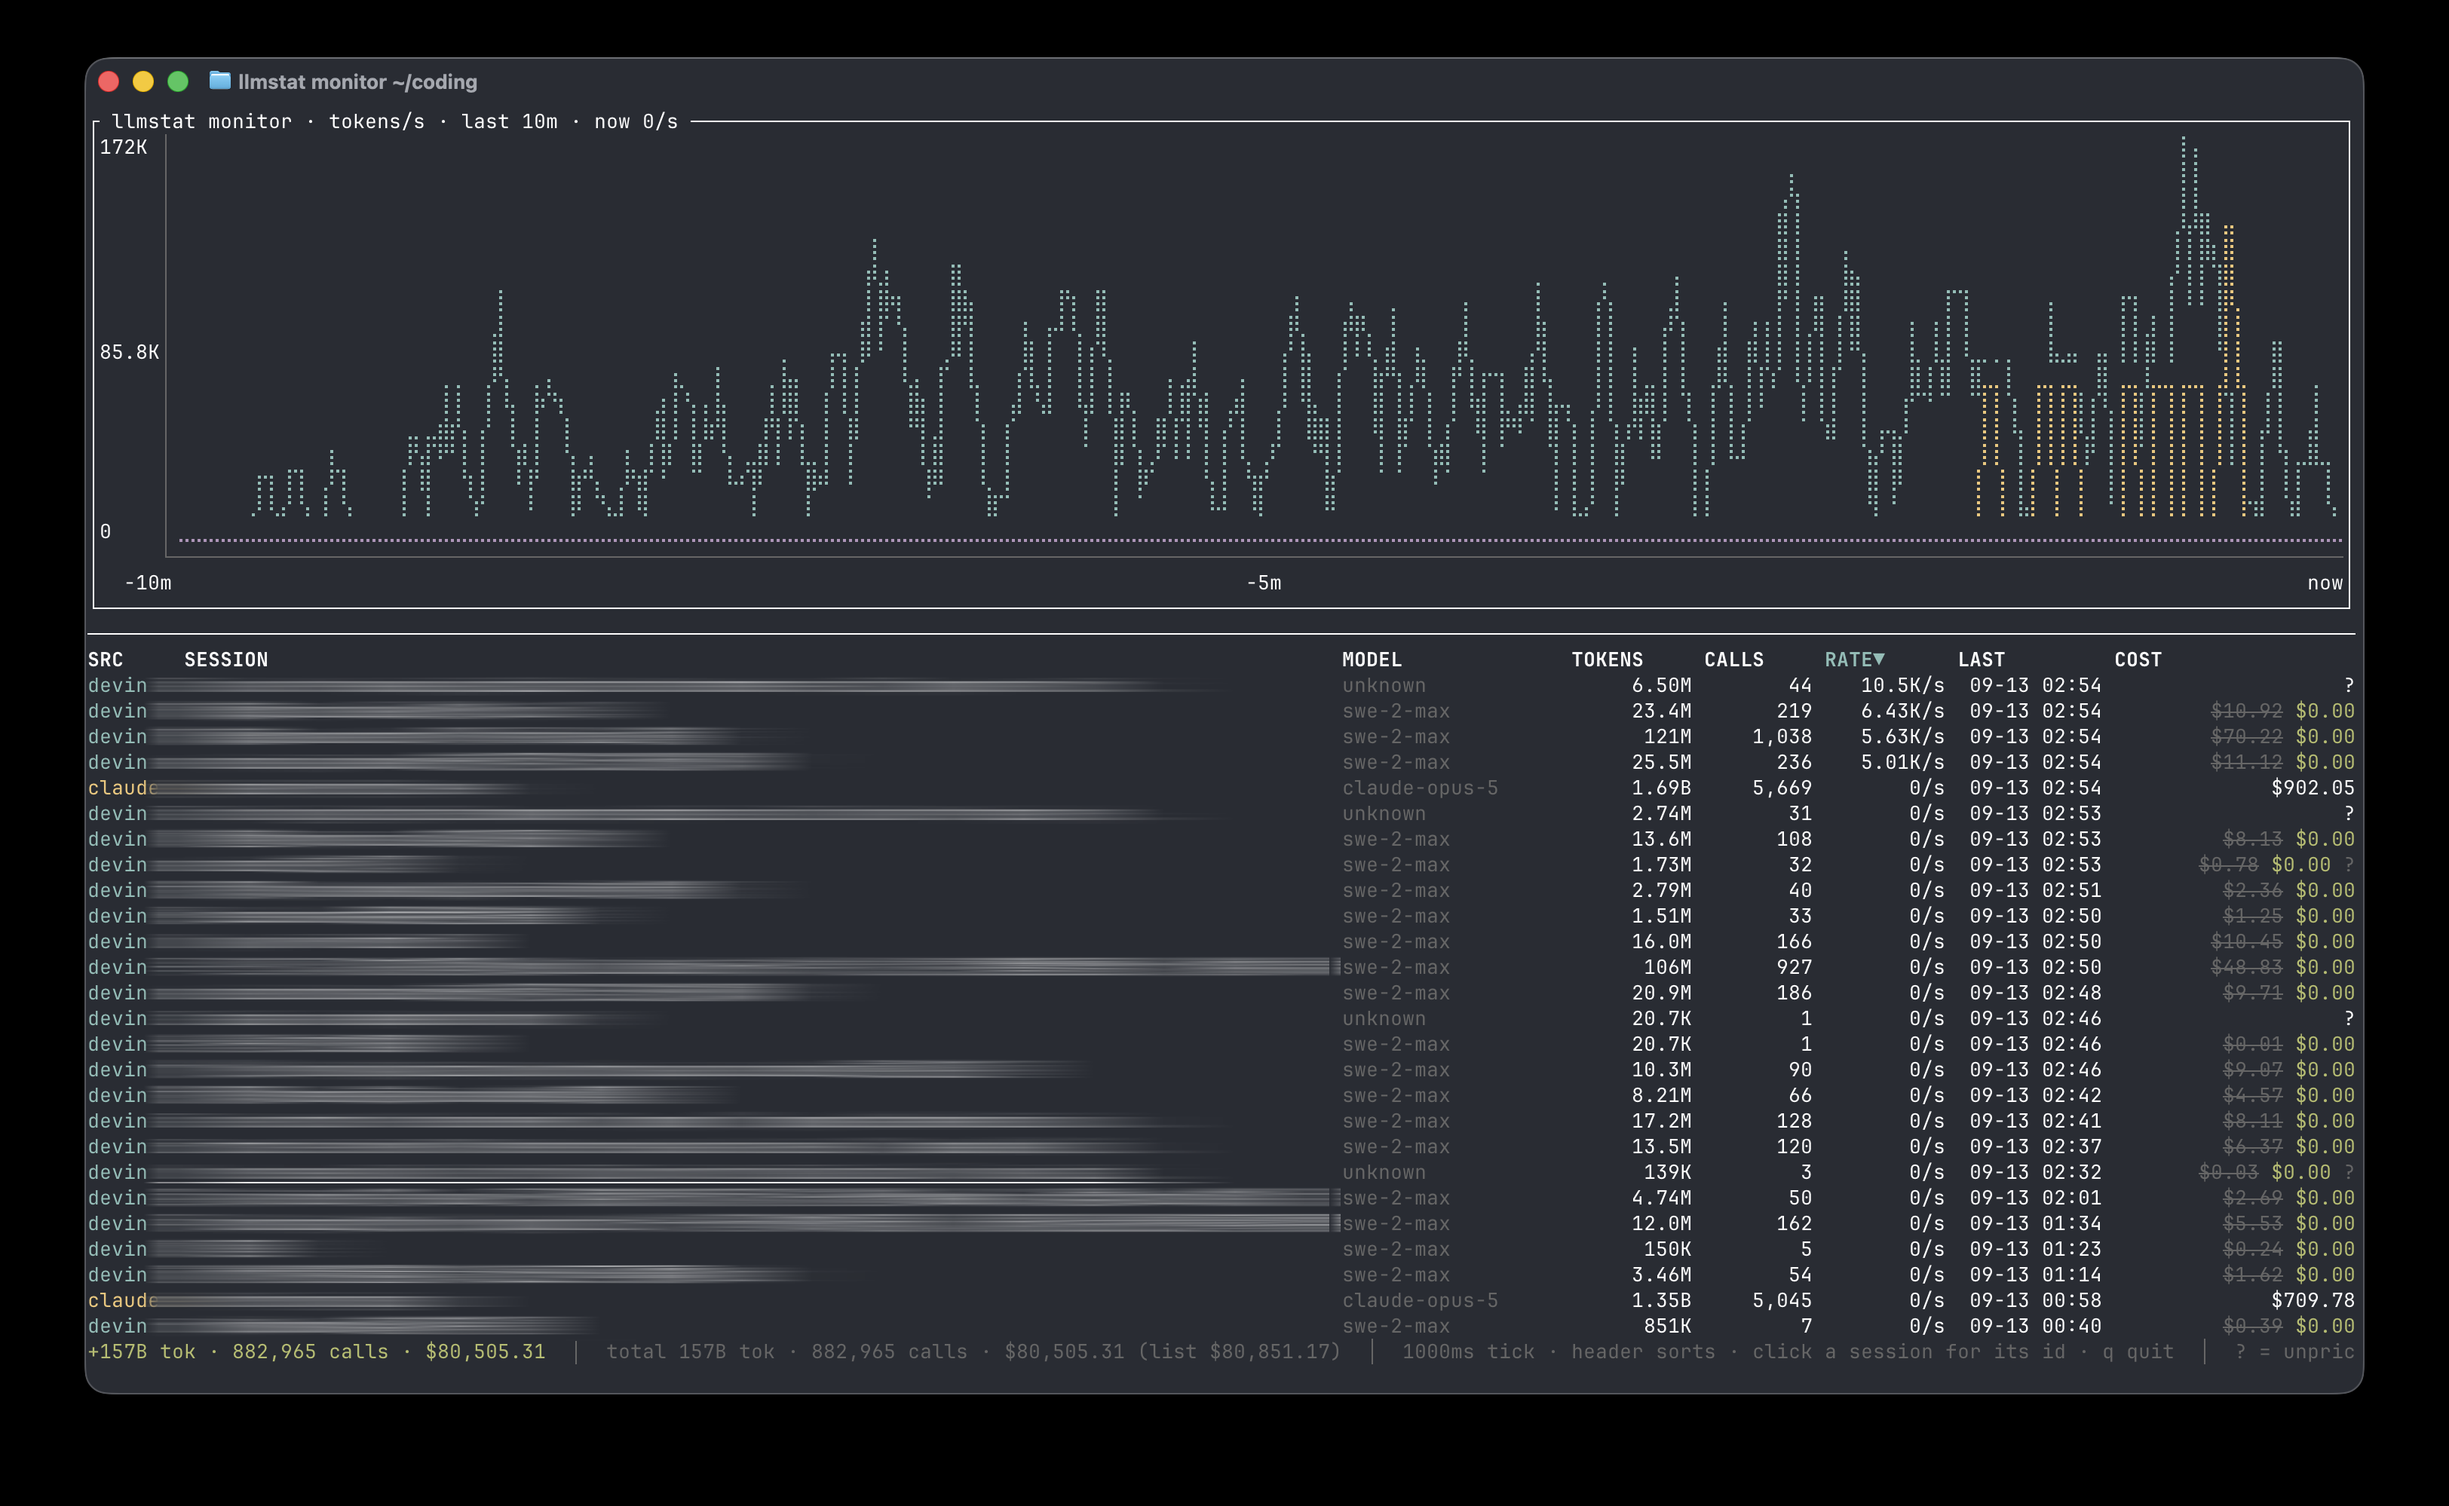
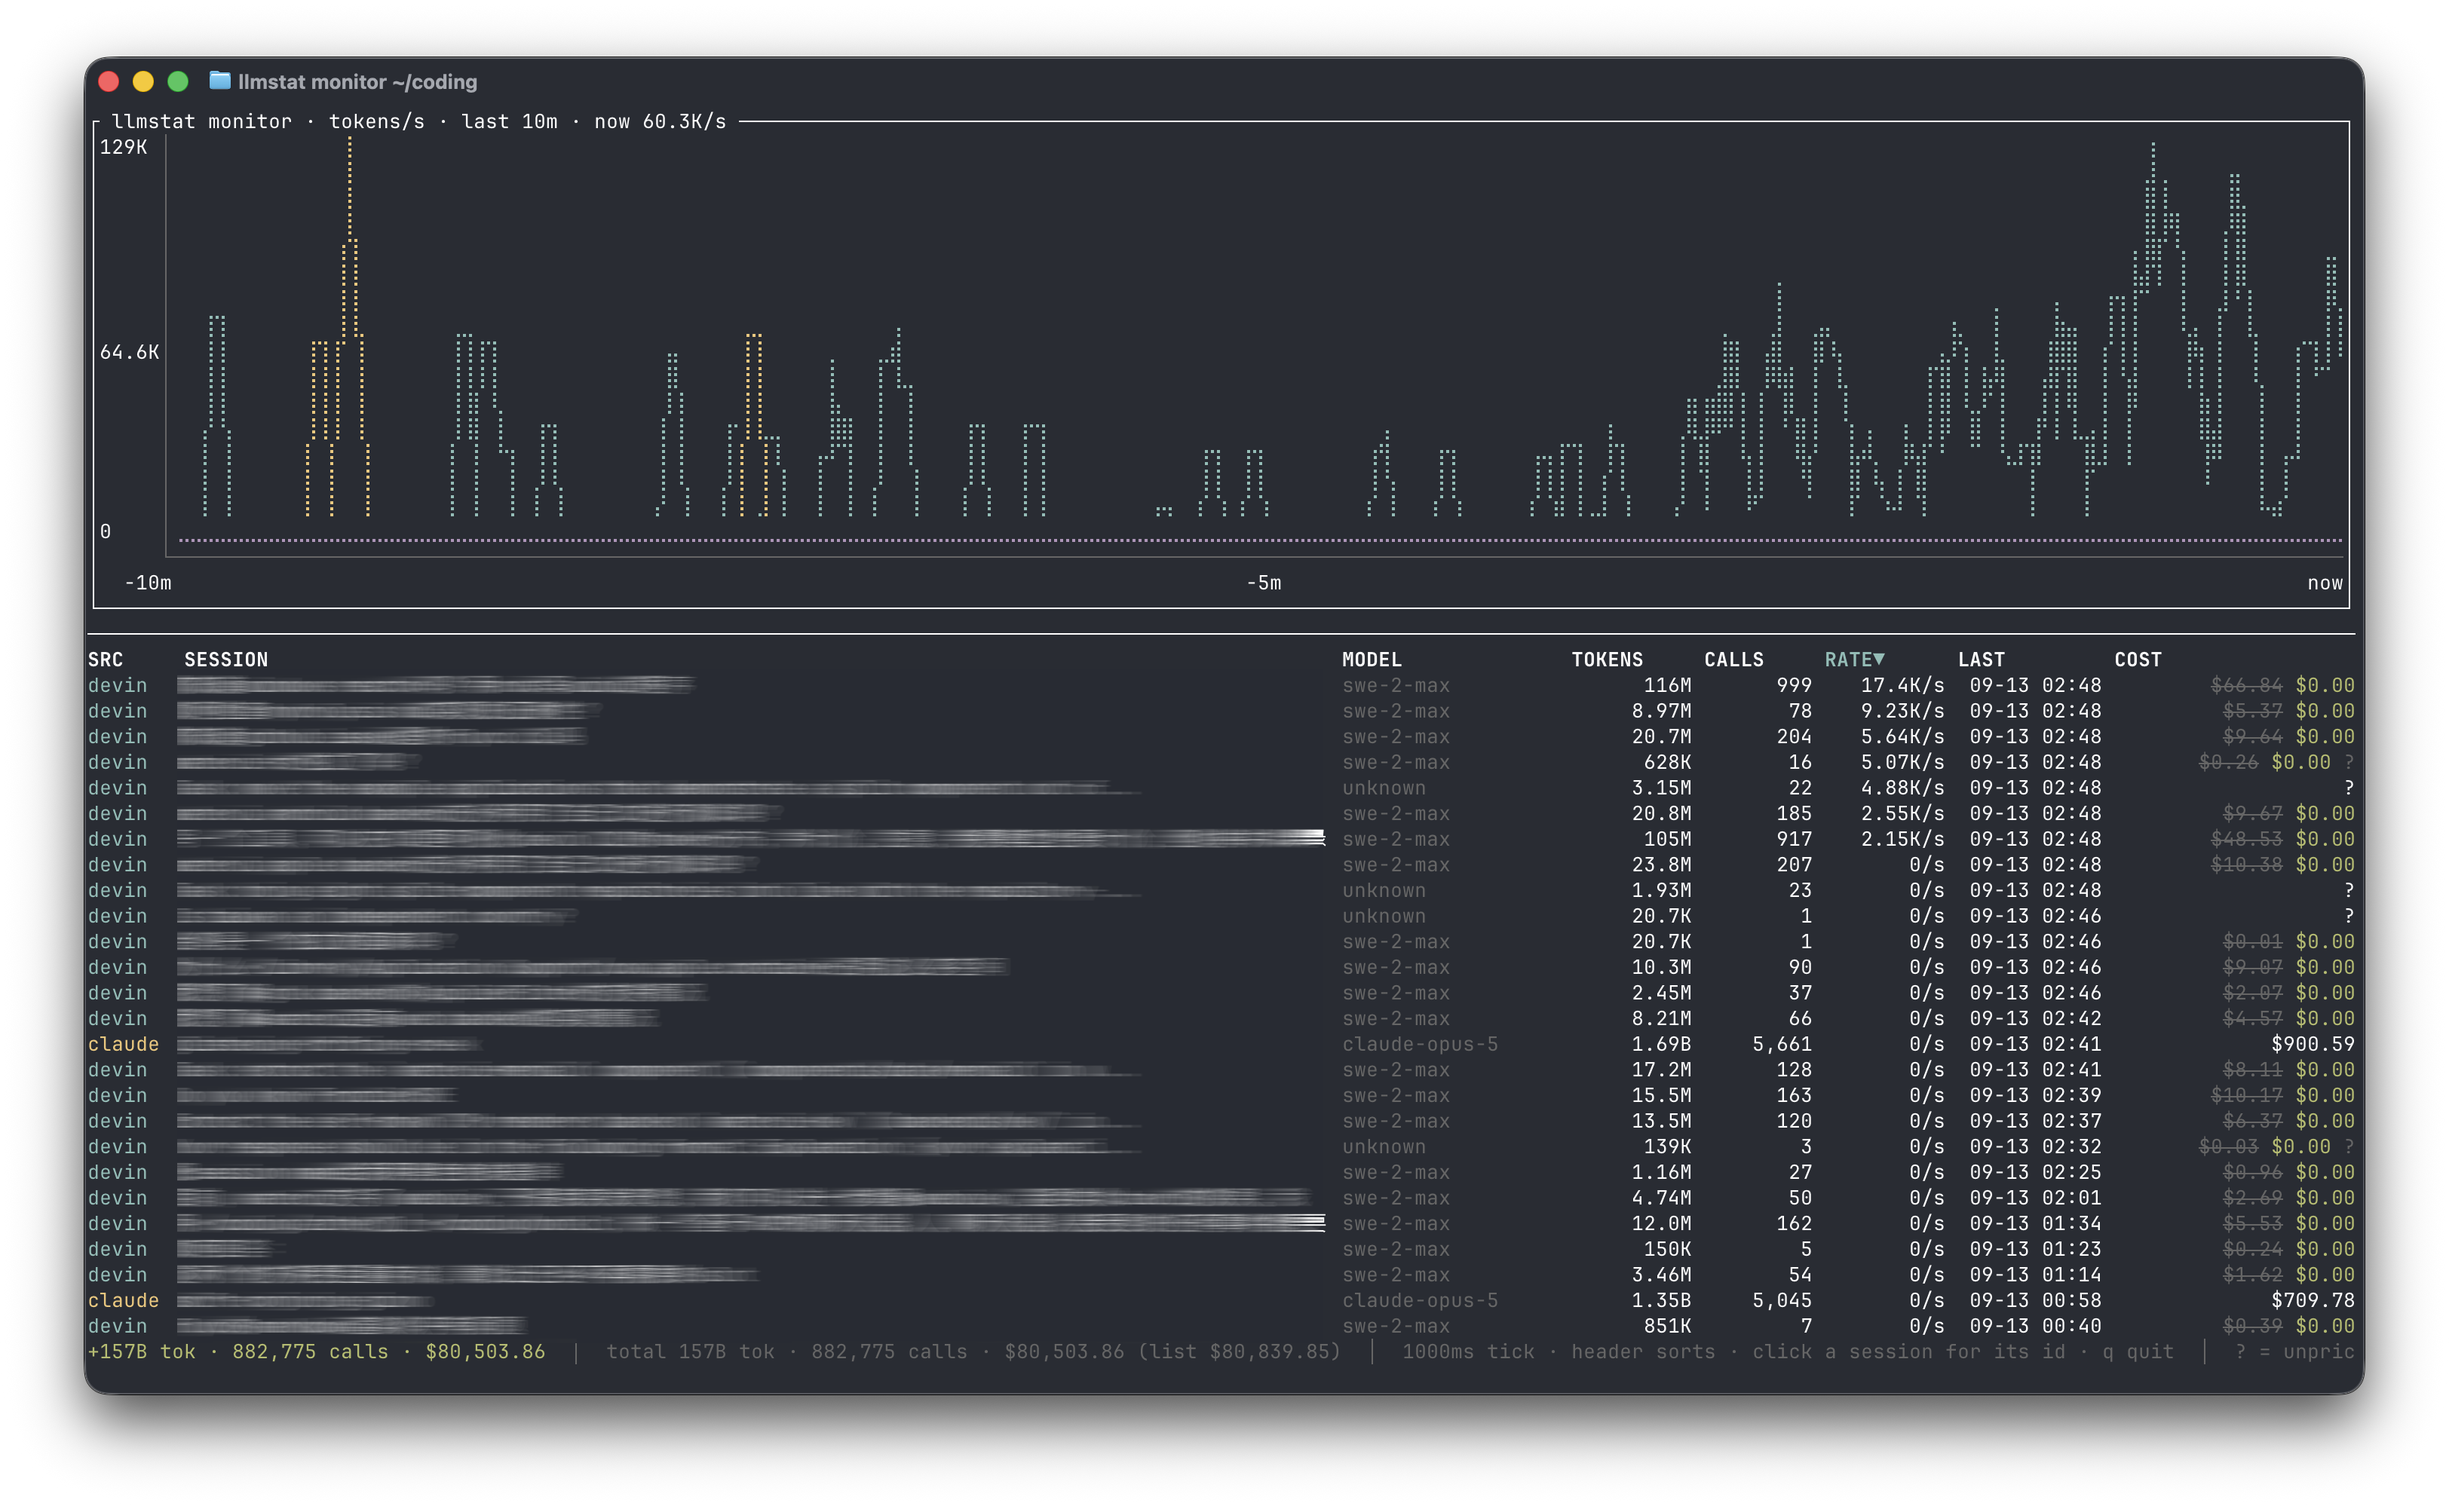
docs(readme): plain rewrite, transparent screenshot
Drop the Data sources section and the marketing-style feature list.
Swap monitor.png for a window capture with real transparency; session
names are motion-blurred in place, header and footer untouched.

Closes #41

diff --git a/README.md b/README.md
@@ -1,39 +1,30 @@
-<div align="center">
-
 # llmstat
-
-**Token usage and cost across your local LLM CLIs — one report.**
 
 [![crates.io](https://img.shields.io/crates/v/llmstat)](https://crates.io/crates/llmstat)
 [![release](https://img.shields.io/github/v/release/lexoliu/llmstat)](https://github.com/lexoliu/llmstat/releases/latest)
 [![license](https://img.shields.io/badge/license-MIT-blue)](LICENSE)
 
-Devin CLI · Claude Code · Codex CLI — priced with the LiteLLM pricebook, in pure Rust.
+Token usage and cost reports for local LLM CLIs: Devin CLI, Claude Code, and
+Codex CLI. Prices come from the LiteLLM pricebook. Pure Rust.
 
-<img src="assets/monitor.png" width="860" alt="llmstat monitor — rolling tokens/s chart over a live per-session table">
+<img src="assets/monitor.png" width="860" alt="llmstat monitor — rolling tokens/s chart over a per-session table">
 
-</div>
+- Per-model totals: input / cache-read / output tokens, calls, share, cost
+- Free CLI models are still priced at a public equivalent (SWE-2 → kimi-k3):
+  the list price is struck through and the actual $0.00 is shown in green
+- `monitor` is a live TUI: rolling tokens/s chart plus a per-session table;
+  click a column header to sort, click a session name to reveal its id
+- Each report estimates the energy behind the tokens (kWh and cost at the
+  US industrial electricity rate)
+- All sources are cached incrementally; repeat runs only parse appended data
 
-## Features
-
-- **Unified usage reports** — one table across Devin, Claude Code, and Codex:
-  tokens in/cached/out, calls, share, and cost per model
-- **Honest pricing for free models** — SWE-2, Adaptive & co. are priced at
-  their public equivalents (Kimi K3, …); the list price is struck through and
-  the real **$0.00** shows in green
-- **Live monitor** — rolling tokens/s chart + per-session table, mouse-sortable
-  columns, click a session to reveal its id
-- **Energy trivia** — every report estimates the kWh behind your tokens and
-  prices them at the US industrial rate
-- **Fast on huge logs** — incremental caches everywhere; Devin's multi-GB
-  SQLite scans only the new tail after the first run
-
-Reports print and exit; `monitor` is a live TUI. Colors only on a TTY,
-respects `NO_COLOR`.
+Reports print to stdout and exit. Colors are used only on a TTY and respect
+`NO_COLOR`.
 
 ## Install
 
-Prebuilt binaries ship with every GitHub Release — no Rust toolchain needed.
+Prebuilt binaries are attached to every GitHub Release — no Rust toolchain
+needed.
 
 macOS / Linux:
 
@@ -47,10 +38,10 @@ Windows (PowerShell):
 powershell -c "irm https://github.com/lexoliu/llmstat/releases/latest/download/llmstat-installer.ps1 | iex"
 ```
 
-Or grab a platform archive directly from
+Or download a platform archive from
 [Releases](https://github.com/lexoliu/llmstat/releases/latest)
 (`aarch64`/`x86_64` macOS, `aarch64`/`x86_64` Linux gnu + musl,
-`x86_64` Windows) — each has a `.sha256` next to it.
+`x86_64` Windows). Each archive ships with a `.sha256`.
 
 From source via crates.io:
 
@@ -70,11 +61,11 @@ llmstat monitor         # real-time monitor: rolling tok/s chart + per-session t
 
 `monitor` polls the append-only logs (default 1s, `--interval-ms` floor 200ms)
 and shows tokens/s per source over the last 10 minutes plus a per-session
-table. Sessions show their human-readable name (task title, slug, or first
-prompt) — click the SESSION cell to toggle a row to its canonical id. Click a
-column header to sort (rate desc, then last activity, by default); clickable
-elements brighten on hover. Tokens appear when each API call completes — that
-is when the CLIs write usage to disk. Quit with `q`, `Esc`, or `Ctrl-C`.
+table. Sessions display a human-readable name (task title, slug, or first
+prompt); clicking the SESSION cell toggles that row to its canonical id.
+Clicking a column header sorts the table — default is rate descending, then
+last activity. Tokens appear when an API call completes, which is when the
+CLIs write usage to disk. Quit with `q`, `Esc`, or `Ctrl-C`.
 
 ```
 llmstat --sources devin,claude      # read only these sources
@@ -109,28 +100,9 @@ list (equiv.) $928.61   actual $185.09   · some models unpriced
  ...
 ```
 
-- `list` = what the usage would cost at public list price
-- `actual` = what the CLI actually charges — **$0.00 in green** for models
-  the CLI offers free (their list price is struck through), red for real spend
-- `*` marks free-in-CLI models; `?` means no price could be found
-
-## Data sources
-
-| Source | Files | Notes |
-|---|---|---|
-| **Devin CLI** | `~/.local/share/devin/cli/transcripts/*.json` + `sessions.db` | transcripts only serialize the *current* chain; the db additionally recovers calls from resumed/compact/forked chains and subagent sessions that never get a transcript. Every message node's `metadata.num_tokens_preceding` equals the exact `prompt_tokens` of its inference call (verified against `response_dimensions`). Recovered calls get exact input tokens; cached/output are split at that session's observed ratio and flagged as estimated. |
-| **Claude Code** | `~/.claude/projects/**/*.jsonl` | `type:"assistant"` records carry `message.model` + `usage`. Cache-write tokens count as input; `cache_read` is the discounted part. Responses are deduped globally by `message.id` + `requestId` — Claude copies history into new transcript files on resume/compact. |
-| **Codex CLI** | `~/.codex/sessions/**`, `~/.codex/archived_sessions/` | `event_msg`/`token_count` payloads carry per-call `last_token_usage` (input / cached input / output / reasoning output). Model comes from `turn_context`/`session_meta`. Events are deduped by `(session, timestamp, cumulative total)` — the same event lives in both directories. |
-
-Devin's sessions.db is multi-GB and insert-only; matched rows are cached in
-`~/.cache/llmstat/` and each run scans only the new `row_id` tail — parallel
-range scans over several read-only connections, with a sequential prefetch
-warming the OS page cache. First run ~3s, later runs ~0.1s.
-
-Claude and Codex logs are append-only JSONL; parsed calls are cached per
-file (offset + append-probe + parser state, xxh3-128 dedup keys, interned
-session/model strings) in `~/.cache/llmstat/<source>-files-<dirhash>.bin`,
-so later runs reparse only appended tails — full history ~0.35s warm.
+- `list` is what the usage would cost at public list price; `actual` is what
+  the CLI charges — $0.00 in green for models the CLI offers free
+- `*` marks free-in-CLI models; `?` means no price was found
 
 ## Pricing
 
@@ -140,8 +112,7 @@ fetched once and cached for 24h in `~/.cache/llmstat/` (a stale cache is used
 offline). Model names are normalized and matched by exact key, then by `-`
 -delimited prefix.
 
-Rules layer on top of LiteLLM for semantics it can't express — free-in-CLI
-models priced at an equivalent public model:
+Built-in rules price free-in-CLI models at an equivalent public model:
 
 | Model | Priced as | Status |
 |---|---|---|
@@ -175,22 +146,22 @@ User rules take precedence over built-ins and LiteLLM.
 
 ## Energy ("did you know")
 
-Every report footer estimates the **serving energy** behind your tokens,
-shows 2–3 everyday equivalences, and prices the electricity at the US
-industrial rate ($0.081/kWh, EIA). Order-of-magnitude only — real serving
+Every report footer estimates the serving energy behind the tokens, shows
+2–3 everyday equivalences, and prices the electricity at the US industrial
+rate ($0.081/kWh, EIA). This is an order-of-magnitude estimate — real serving
 energy swings several-fold with batch utilization.
 
 Per-model J/token, two paths:
 
 1. **Known architectures** — `J/token = P_active[B] / 100`
    (`2 × active params` FLOPs/token ÷ ~200 GFLOP/J datacenter-effective:
-   H100 BF16, ~30% MFU, node overhead, PUE 1.15). Params come from the
+   H100 BF16, ~30% MFU, node overhead, PUE 1.15). Parameters come from the
    upstream model card; post-trained models inherit their base (SWE-2 →
    Kimi K3 = 104B activated). The pricing `as` alias chain is followed.
 2. **Unknown-parameter models** — list-price inversion. Energy is ~3–5%
    of serving cost, so price implies GPU-slot-seconds/token, which
    converts to energy directly: `J/token = price_$/Mtok × 3 × (1 − margin)`
-   with `margin = 0.5` assumed. Input/output are inverted separately.
+   with `margin = 0.5` assumed. Input and output are inverted separately.
 
 Cache-read tokens are counted at zero (their prefill was already billed
 as input when it ran).
@@ -206,7 +177,7 @@ active_b = 32.0         # activated parameters in billions
 
 ## Notes
 
-- Recovered calls show exact input tokens; the cached/output split is
+- Recovered Devin calls show exact input tokens; the cached/output split is
   estimated and marked in the output.
 - Models with no matching price are shown as `?` and excluded from totals.
 - Devin's db scan assumes `message_nodes` is append-only (`row_id`
